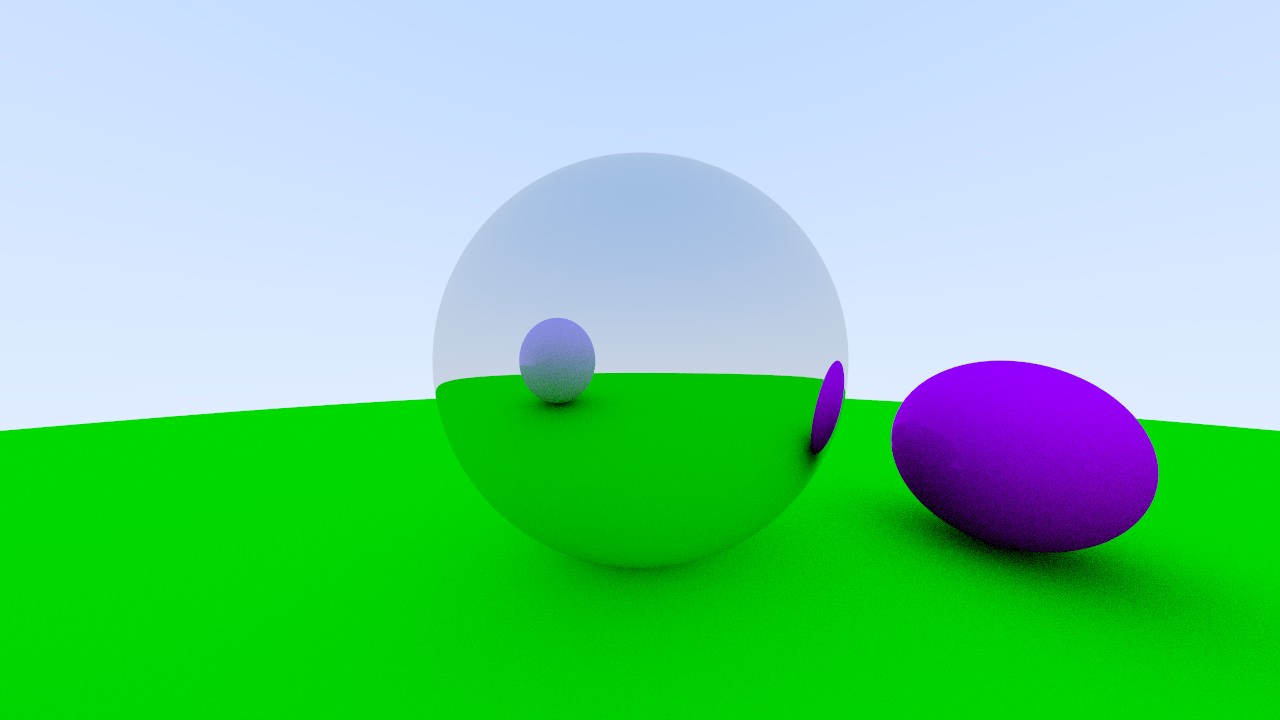
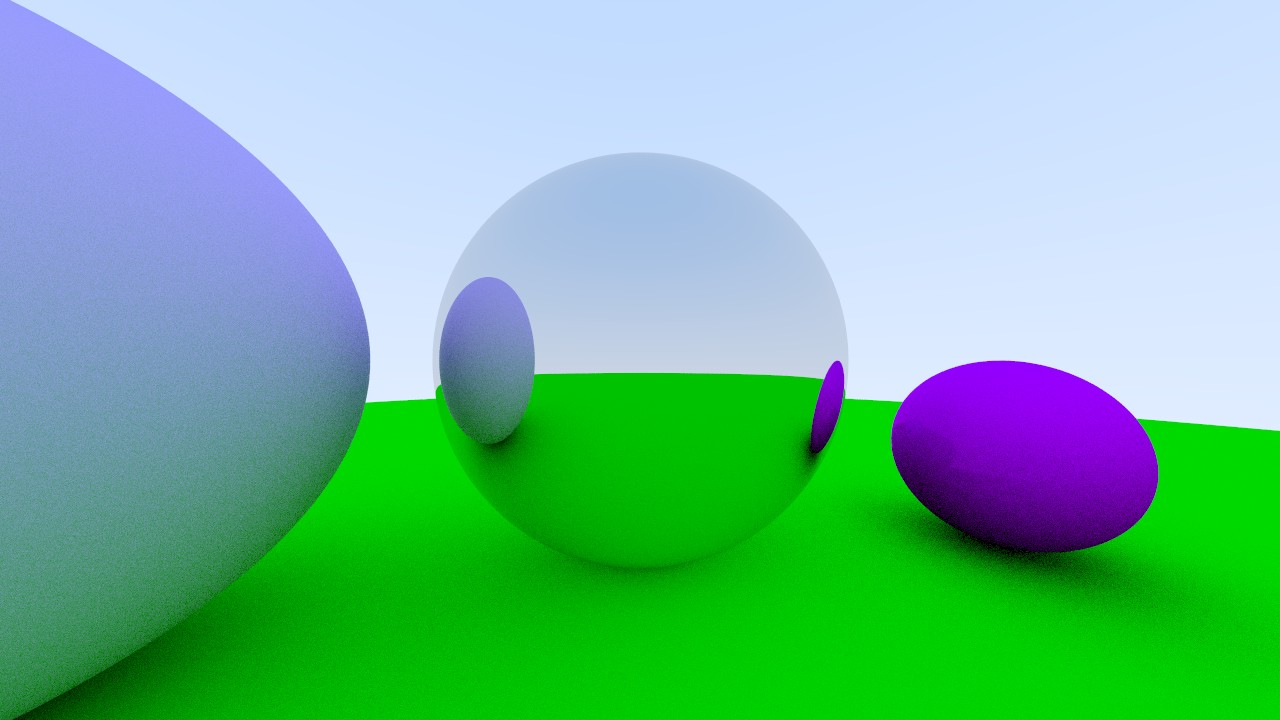
Replaced scene JSON with in-code scene creation

Changed region(s): [[0.0, 0.0, 0.4688, 1.0], [0.7812, 0.7639, 0.8125, 0.7944]]

diff --git a/internal/scene/scene.go b/internal/scene/scene.go
@@ -1,6 +1,7 @@
 package scene
 
 import (
+	"raytracer/internal/color"
 	"raytracer/internal/object"
 	"raytracer/internal/ray"
 	"raytracer/internal/vector"
@@ -17,11 +18,28 @@ type camera struct {
 	Position vector.Vector `json:"position"`
 }
 
-// InitMaterials initialises all materials
-func (s *Scene) InitMaterials() {
-	for _, s := range s.Spheres {
-		s.Material = object.NewMaterial(s.MaterialName, s.Albedo)
+// ThreeBalls returns a scene with three balls
+func ThreeBalls() Scene {
+	s := Scene{
+		Camera: camera{
+			Position: vector.New(0, 0, 0),
+		},
+		Spheres: make([]*object.Sphere, 0),
 	}
+
+	// Center metal sphere
+	s.Spheres = append(s.Spheres, object.NewSphere(vector.New(0, 0, -1), 0.5, object.Metal(color.New(0.8, 0.8, 0.8))))
+
+	// Right purple sphere
+	s.Spheres = append(s.Spheres, object.NewSphere(vector.New(1, -0.25, -1), 0.25, object.Lambertian(color.New(0.6, 0, 1))))
+
+	// Left sphere
+	s.Spheres = append(s.Spheres, object.NewSphere(vector.New(-1, 0, -0.5), 0.5, object.Lambertian(color.New(0.6, 0.5, 1))))
+
+	// Ground plane sphere
+	s.Spheres = append(s.Spheres, object.NewSphere(vector.New(0, -100.5, -1), 100, object.Lambertian(color.New(0, 1, 0))))
+
+	return s
 }
 
 // Hit checks for hits in the scene

diff --git a/internal/object/material.go b/internal/object/material.go
@@ -12,28 +12,15 @@ type Material interface {
 	Scatter(r *ray.Ray, hit *Hit, attenuation *color.RGB, scattered *ray.Ray, rand *rand.Rand) bool
 }
 
-// NewMaterial creates a new Material, if the material does not exist, the basic lambertian material is returned
-// Albedo is the color of the material
-func NewMaterial(name string, albedo color.RGB) Material {
-	switch name {
-	case "lambertian":
-		return lambertian{
-			albedo: albedo,
-		}
-	case "metal":
-		return metal{
-			albedo: albedo,
-		}
-	default:
-		return lambertian{
-			albedo: albedo,
-		}
-	}
-}
-
 // Basic diffuse material
 type lambertian struct {
 	albedo color.RGB
+}
+
+func Lambertian(albedo color.RGB) Material {
+	return lambertian{
+		albedo: albedo,
+	}
 }
 
 func (m lambertian) Scatter(r *ray.Ray, hit *Hit, attenuation *color.RGB, scattered *ray.Ray, rand *rand.Rand) bool {
@@ -53,6 +40,12 @@ func (m lambertian) Scatter(r *ray.Ray, hit *Hit, attenuation *color.RGB, scatte
 // Metal material
 type metal struct {
 	albedo color.RGB
+}
+
+func Metal(albedo color.RGB) Material {
+	return metal{
+		albedo: albedo,
+	}
 }
 
 func (m metal) Scatter(r *ray.Ray, hit *Hit, attenuation *color.RGB, scattered *ray.Ray, rand *rand.Rand) bool {

diff --git a/internal/object/sphere.go b/internal/object/sphere.go
@@ -9,18 +9,18 @@ import (
 
 // Sphere is a sphere, duh
 type Sphere struct {
-	Center       vector.Vector `json:"center"`
-	Radius       float64       `json:"radius"`
-	Material     Material      `json:"-"`
-	MaterialName string        `json:"materialName"`
-	Albedo       color.RGB     `json:"albedo"`
+	Center   vector.Vector
+	Radius   float64
+	Material Material
+	Albedo   color.RGB
 }
 
 // NewSphere creates a new Sphere
-func NewSphere(center vector.Vector, radius float64) Sphere {
-	return Sphere{
-		Center: center,
-		Radius: radius,
+func NewSphere(center vector.Vector, radius float64, material Material) *Sphere {
+	return &Sphere{
+		Center:   center,
+		Radius:   radius,
+		Material: material,
 	}
 }
 

diff --git a/cmd/raytracer/main.go b/cmd/raytracer/main.go
@@ -1,7 +1,6 @@
 package main
 
 import (
-	"encoding/json"
 	"image"
 	"image/draw"
 	"image/jpeg"
@@ -35,19 +34,7 @@ type imagePart struct {
 }
 
 func main() {
-	// Load in a scene file
-	f, err := os.Open("scenes/threeSpheres.json")
-	if err != nil {
-		panic(err)
-	}
-
-	// Decode the scene
-	err = json.NewDecoder(f).Decode(&loadedScene)
-	if err != nil {
-		panic(err)
-	}
-	f.Close()
-	loadedScene.InitMaterials()
+	loadedScene = scene.ThreeBalls()
 
 	// Image config
 	const aspectRatio = 16.0 / 9.0
